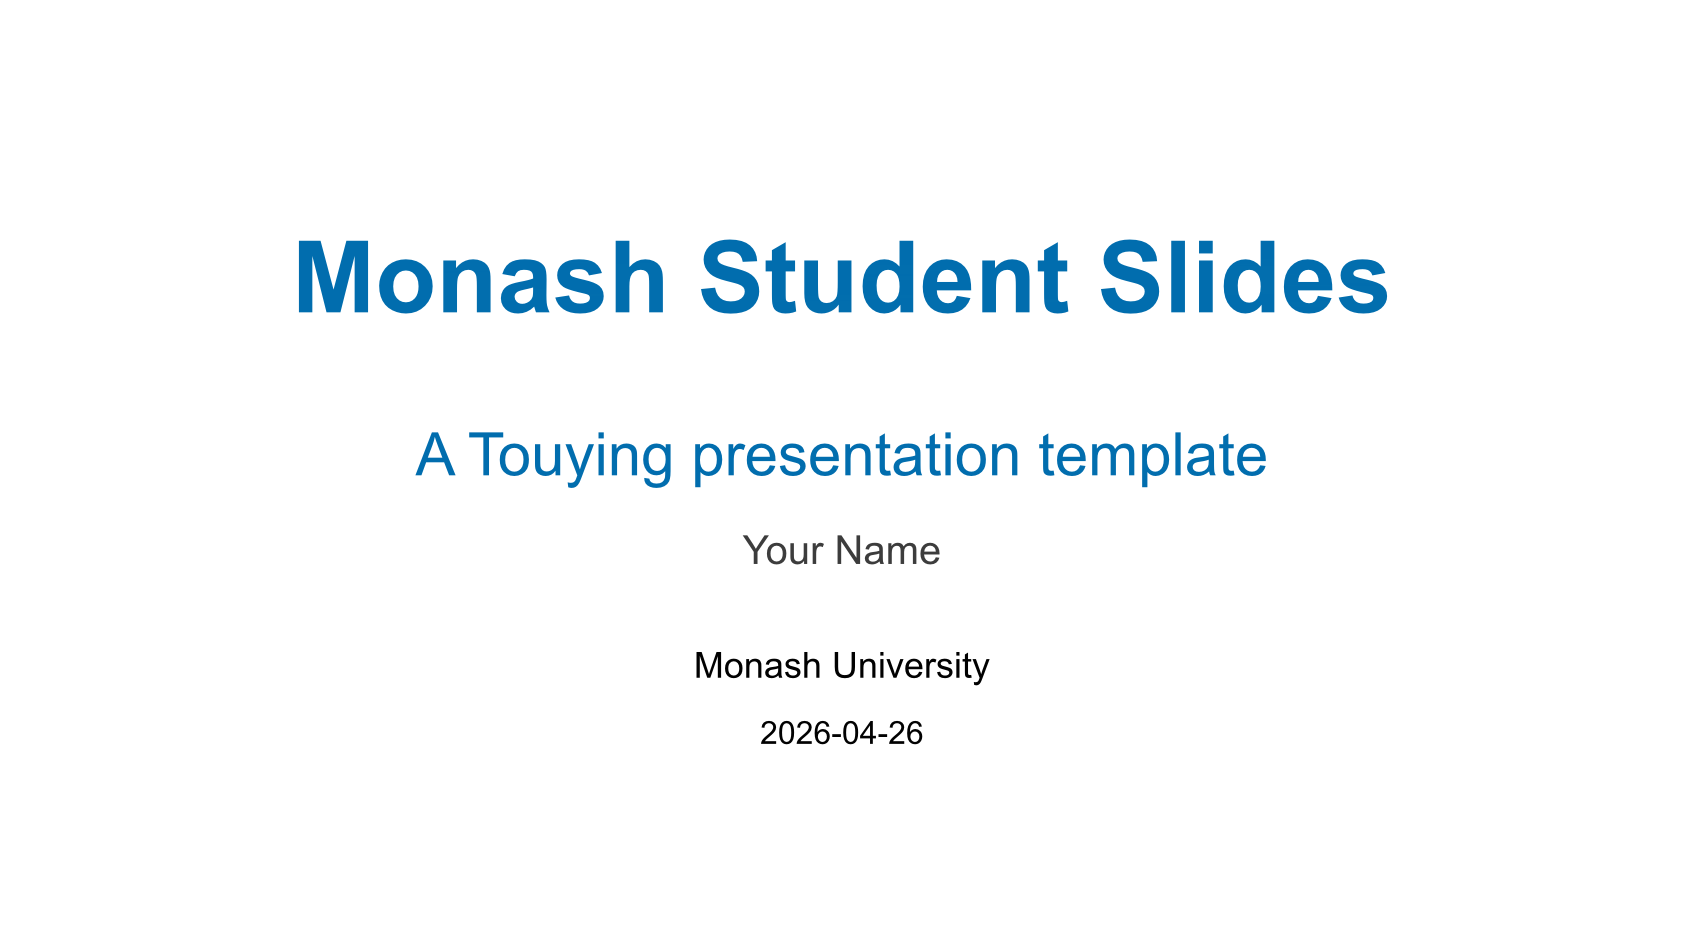
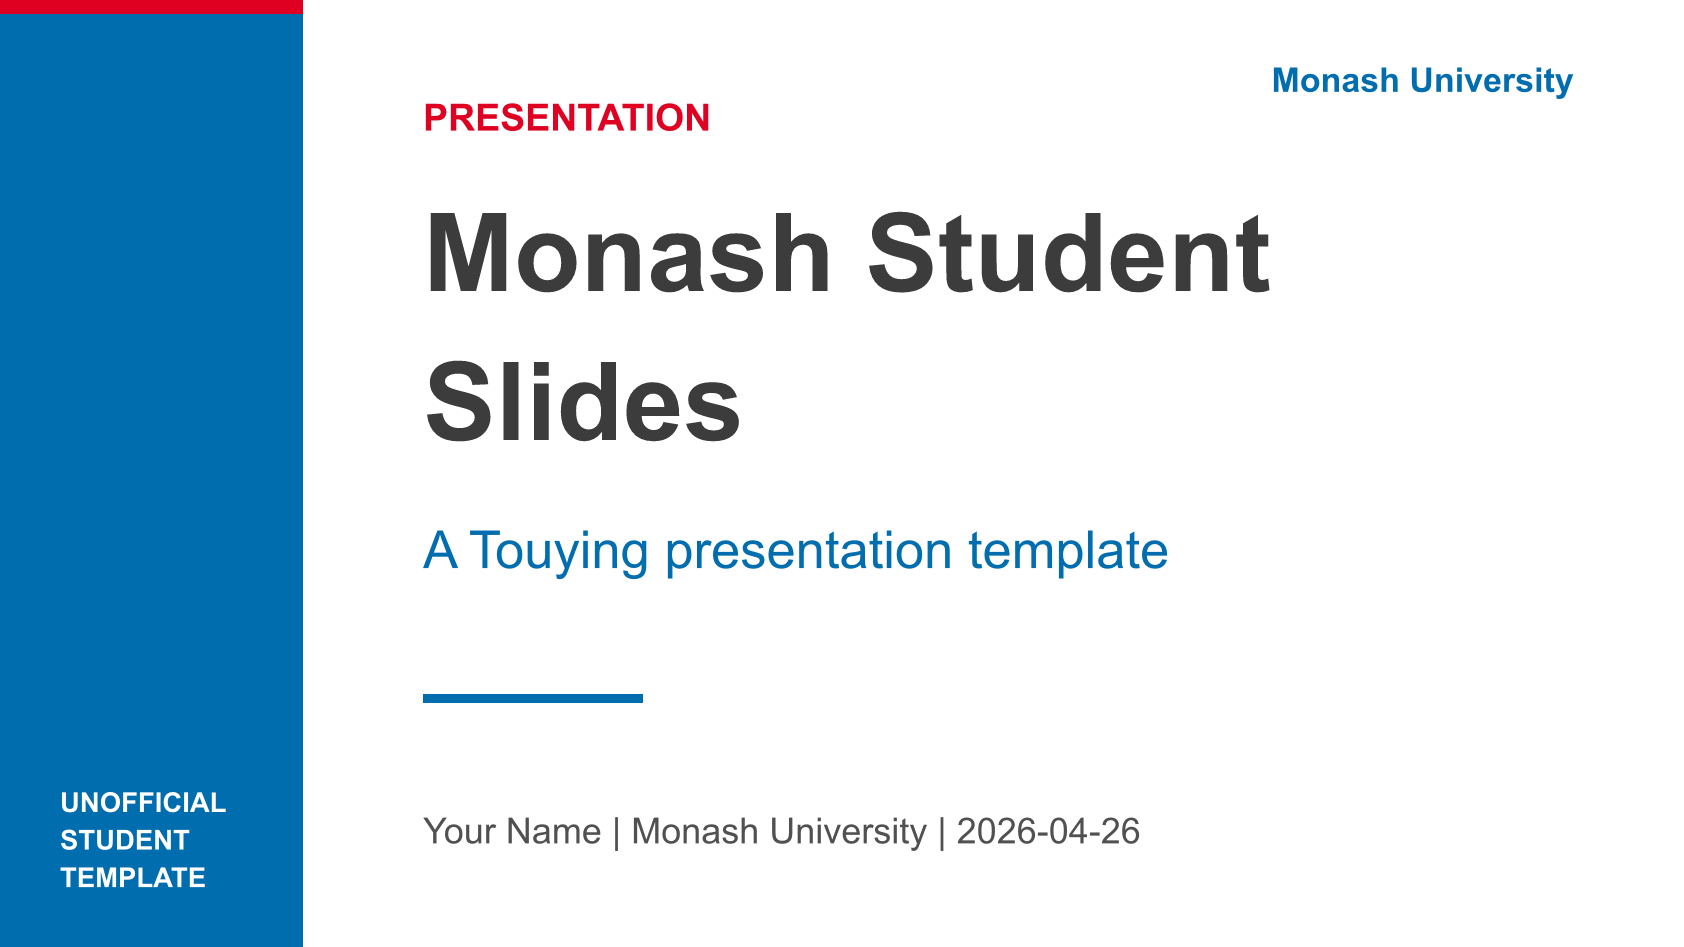
Make the slide theme follow Monash visual language more closely
The initial scaffold inherited too much of Touying's centered university look and used red as a structural footer colour. This change moves the template toward a Monash-inspired left-aligned presentation system with a blue identity band, restrained red accents, quieter footer colours, and documentation for using logo SVGs without vendoring official marks.

Constraint: Monash logo assets carry trademark and usage-rule concerns

Constraint: Keep Touying as the slide engine and adjust only the theme/helper layer

Rejected: Bundle the Wikimedia Monash SVG | useful source, but not safe as a default unofficial package asset

Rejected: Keep red as a footer/progress colour | visually too loud and less consistent with the blue-led Monash palette

Confidence: medium

Scope-risk: narrow

Directive: Official logo files should remain user-supplied unless permission is documented

Tested: ./scripts/check.sh

Not-tested: Typst Universe package PR validation

diff --git a/docs/brand-notes.md b/docs/brand-notes.md
@@ -20,9 +20,28 @@ The template currently uses:
 - `#DF0021` as the red accent.
 - neutral greys for body/footer contrast.
 - a user-supplied `logo` slot instead of bundled official marks.
+- a grey tertiary footer/progress colour so red remains a limited accent.
+
+## Logo SVG Notes
+
+The official Monash website exposes an SVG path for `monash-logo-mono.svg`, but
+direct automated download may be blocked. Wikimedia Commons mirrors a
+`Monash University logo.svg` file sourced from that official URL and marks it as
+simple geometry/public domain while also warning that it may be trademarked.
+
+Do not vendor that SVG into this package by default. If a user has the right to
+use the mark, they can place their own SVG under `template/assets/` and pass:
+
+```typst
+#show: monash-theme.with(
+  logo: image("assets/monash-logo.svg", height: 1.2em),
+  ...
+)
+```
 
 ## References
 
 - Monash Malaysia brand guide PDF: <https://www.monash.edu.my/__data/assets/pdf_file/0009/519165/monash-brandguide-2015.pdf>
 - Monash core logo guidelines PDF: <https://www.monash.edu/__data/assets/pdf_file/0010/1656523/3.-CoreElements_Our-Logo.pdf>
-
+- Wikimedia Commons mirror page: <https://commons.wikimedia.org/wiki/File:Monash_University_logo.svg>
+- Wikimedia Commons SVG file: <https://upload.wikimedia.org/wikipedia/commons/7/7c/Monash_University_logo.svg>

diff --git a/README.md b/README.md
@@ -5,7 +5,7 @@ thin wrapper around [Touying](https://typst.app/universe/package/touying/).
 
 This package is not endorsed by Monash University. It does not bundle, redraw,
 or modify official Monash logo assets. If you have permission to use an official
-logo, pass it through the `logo` option yourself.
+logo, place the SVG in `template/assets/` and pass it through the `logo` option.
 
 ## Design Notes
 
@@ -29,6 +29,7 @@ research talks.
     institution: [Monash University],
     date: datetime.today(),
   ),
+  logo: none,
 )
 
 #title-slide()
@@ -78,4 +79,3 @@ The harness compiles the template and example decks into `build/`.
 This is an unofficial student-oriented template. It uses a Monash-inspired
 layout and palette, but it avoids shipping official marks. Keep any future logo
 support opt-in and user supplied.
-

diff --git a/template/assets/README.md b/template/assets/README.md
@@ -1,0 +1,15 @@
+# Assets
+
+Place presentation-specific assets here.
+
+Official Monash logo files are not bundled with this package. If you have the
+right to use a Monash logo SVG, place it in this directory and pass it to the
+theme:
+
+```typst
+#show: monash-theme.with(
+  logo: image("assets/monash-logo.svg", height: 1.2em),
+  ...
+)
+```
+
